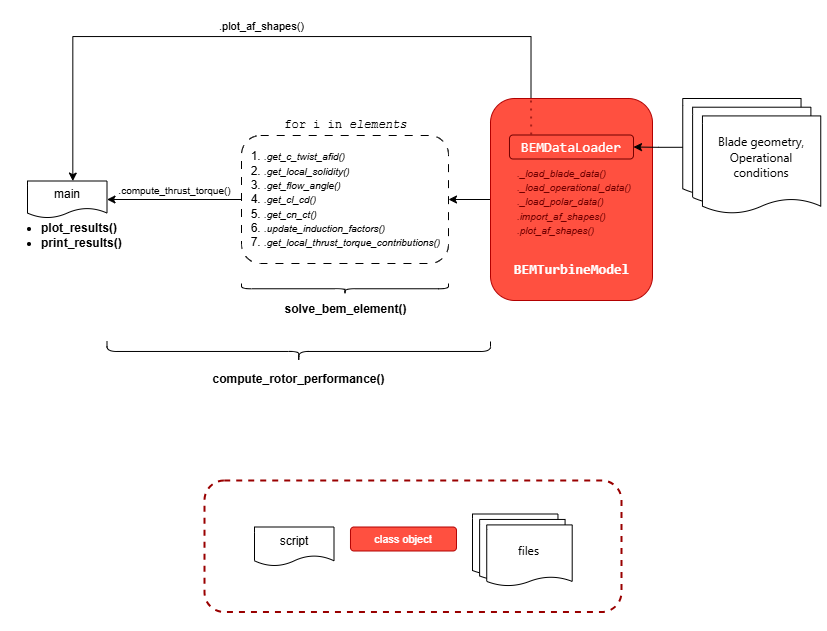
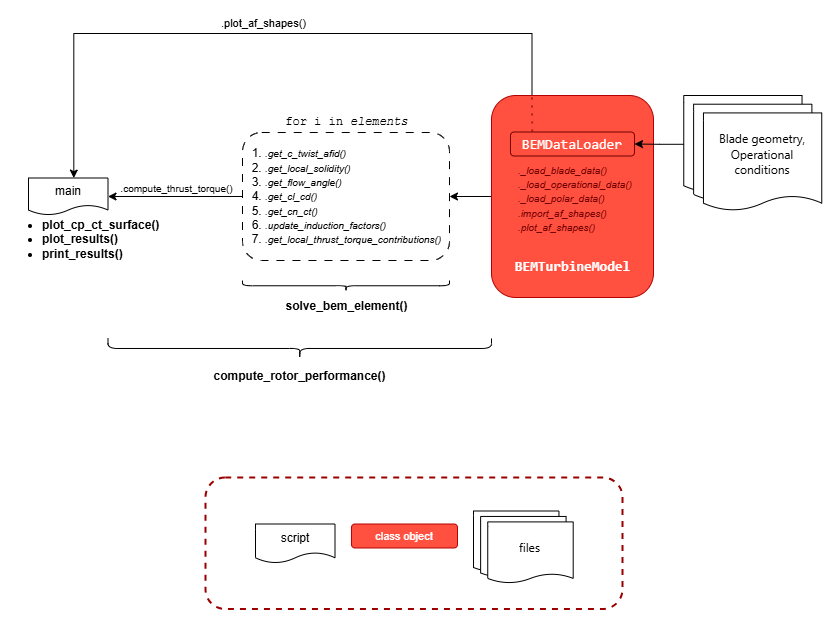
Adding plot_cp_ct_surface() func to the diagram

diff --git a/README.md b/README.md
@@ -86,6 +86,8 @@ Runs `solve_bem_element(...)` function on all blade elements and integrates the 
 
 #### `plot_results(bem_model)` - plots a power curve and thrust curve over a range of wind speeds. 
 
+#### `plot_cp_ct_surface(bem_model)` - plots power coefficient and thrust coefficient surfaces as a function of blade pitch and tip speed ratio.  
+
 #### `print_results(performance)` - prints overall rotor performance.  
 
 ## Collaboration
